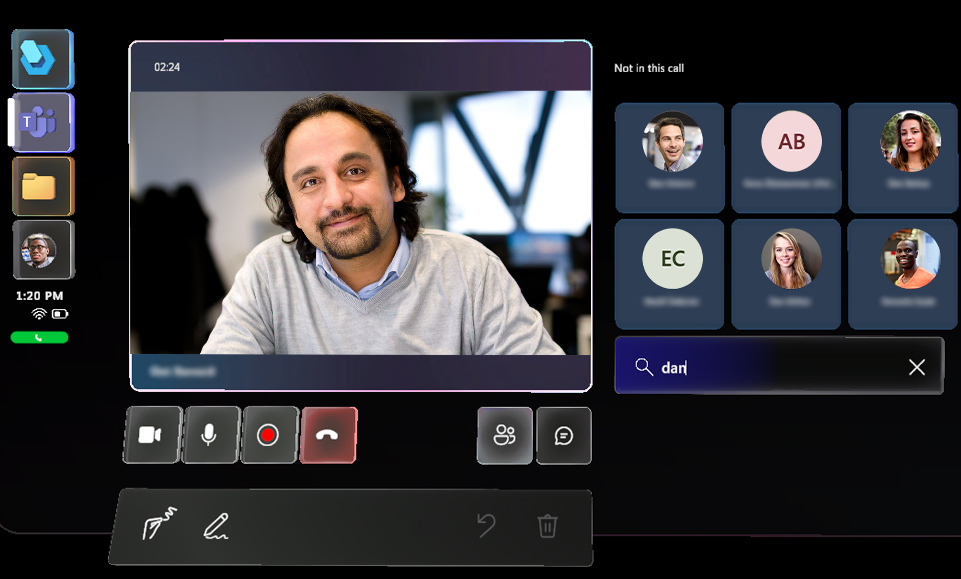
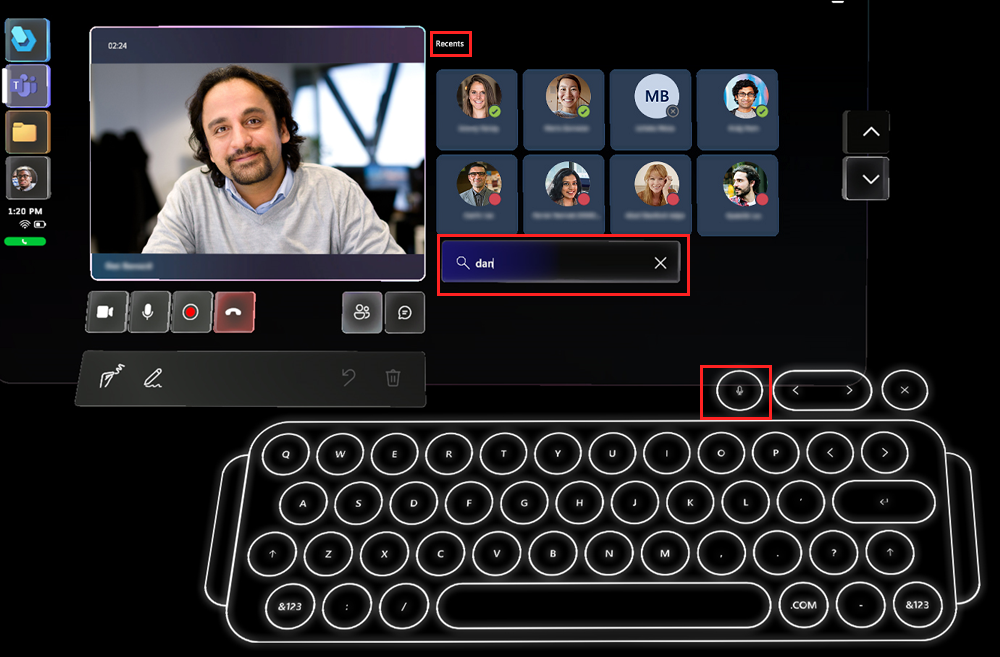
Add screenshots

diff --git a/mr-docs/guides/new.md b/mr-docs/guides/new.md
@@ -30,7 +30,7 @@ If you have feature requests or suggested improvements, send them to the [!inclu
 
 - Significantly improved reliability to remote linking and the ability for HoloLens operators to draw directly in their vicinity with [direct inking](calling-annotations.md#draw-in-your-space).
 - Added the ability for users to toggle their camera off before joining a Teams HoloLens meeting or making an outgoing call.
-- Added badges on the participant tiles for Guest and External participants wherever contacts are shown such as in meetings, in a call, or in a contact search.
+- Added badges on the participant tiles for [Guest and External participants](/microsoftteams/communicate-with-users-from-other-organizations) wherever contacts are shown such as in meetings, in a call, or in a contact search.
 - Added linking for Authors to [link to another guide or open a custom app on a guide step](pc-app-website-powerapps-link.md#add-a-link-to-a-step).
 
 ## Earlier releases

diff --git a/mr-docs/guides/calling-concepts.md b/mr-docs/guides/calling-concepts.md
@@ -54,3 +54,10 @@ A Dynamics 365 Guides user cannot spotlight anyone else on the call, including t
 ## Outgoing video quality is adjusted if the HoloLens device gets too hot
 
 If you're on a longer call, the HoloLens device can become hot if it's using several device capabilities at the same time (for example, multiple cameras, Mixed Reality Capture, and Wi-Fi). To extend the length of the call and keep the device from overheating, Dynamics 365 Guides gradually reduces outgoing video quality. If this happens, you'll see a series of messages to let you know how and why the outgoing video quality is being adjusted. [Learn more about how Dynamics 365 Guides automatically adjusts video quality](calling-hololens-thermal-adjusting.md)
+
+## Next steps
+
+- [Start a call](calling-start-call.md)
+- [Join a meeting](calling-meetings.md)
+
+[!INCLUDE[footer-include](../includes/footer-banner.md)]

diff --git a/mr-docs/guides/calling-start-call.md b/mr-docs/guides/calling-start-call.md
@@ -32,7 +32,7 @@ Start a call from your HoloLens.
 
     - If the contact isn't listed in the **Recent** list, place your cursor in the **Search** box, and then in the holographic keyboard that appears, enter the person's name or email address. Use the **Microphone** button if you prefer to use your voice to enter the person's name in the **Search** box.
 
-      ![Screenshot of Recent list with Search box below and holographic keyboard displayed.](media/calling-start-call-1.JPG "Screenshot of Recent list with Search box below and holographic keyboard displayed.")
+      :::image type="content" source="media/calling-start-call-1.png" alt-text="Screenshot of Recent list with Search box below and holographic keyboard displayed.":::
 
 1. In the window that appears, choose whether you want video on or off and then select the **Phone** button to call the contact.
 

diff --git a/mr-docs/guides/calling-chat-file-sharing.md b/mr-docs/guides/calling-chat-file-sharing.md
@@ -38,7 +38,7 @@ When a Microsoft Dynamics 365 Guides user on HoloLens is on a call with one or m
 
     If a remote collaborator shares a file or page link, the file or page automatically opens in a new window in your space. You can move this window wherever you want or size it directly with your hands. 
 
-   ![Screenshot showing example file shared with the user.](media/calling-chat-file-sharing-5.JPG "Screenshot showing example file shared with the user")
+   ![Screenshot showing example file shared with the user.](media/calling-chat-file-sharing-5.png "Screenshot showing example file shared with the user")
 
    The remote collaborator can also paste a link into the **Chat** window to share a file.  
 
